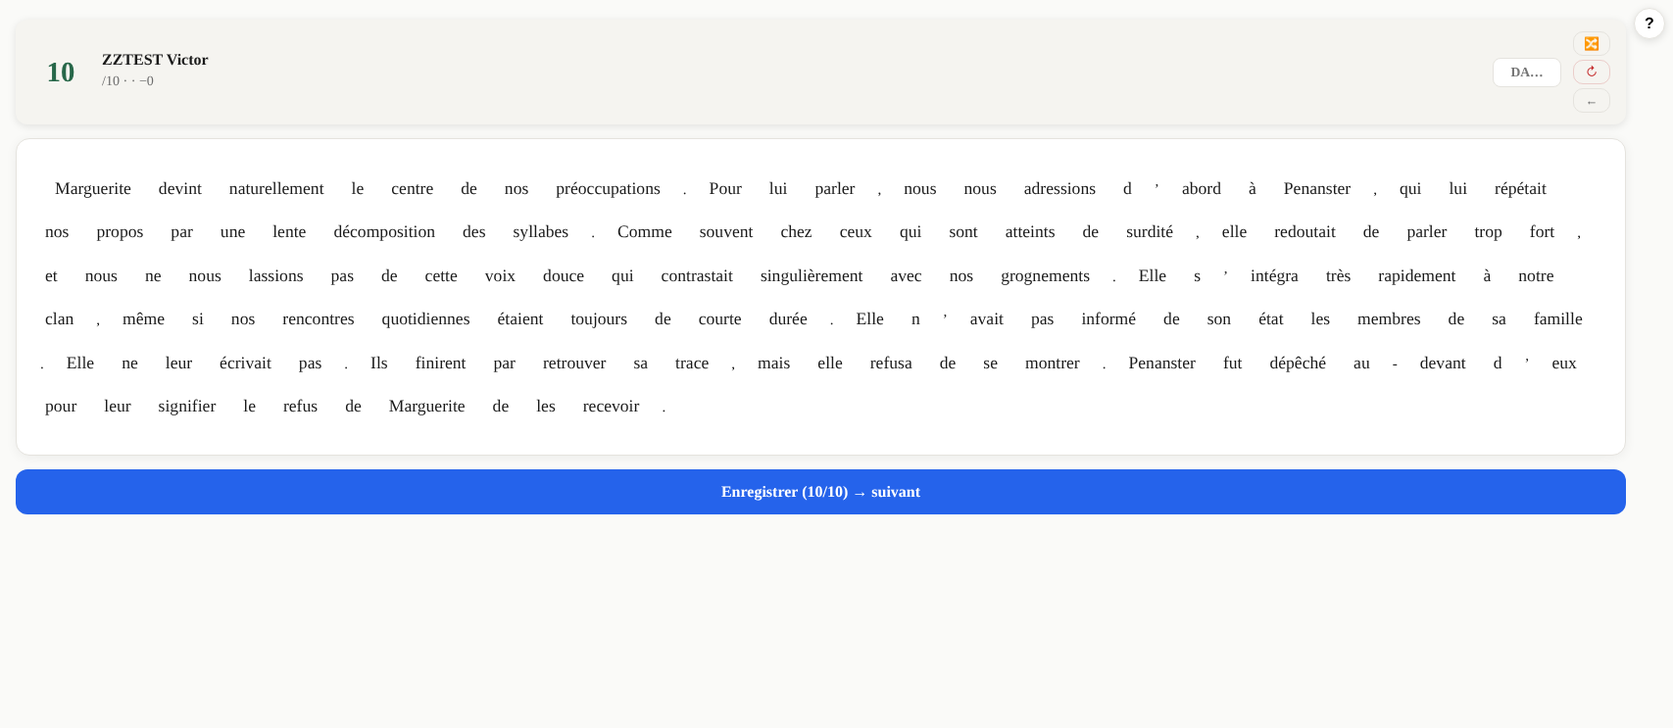
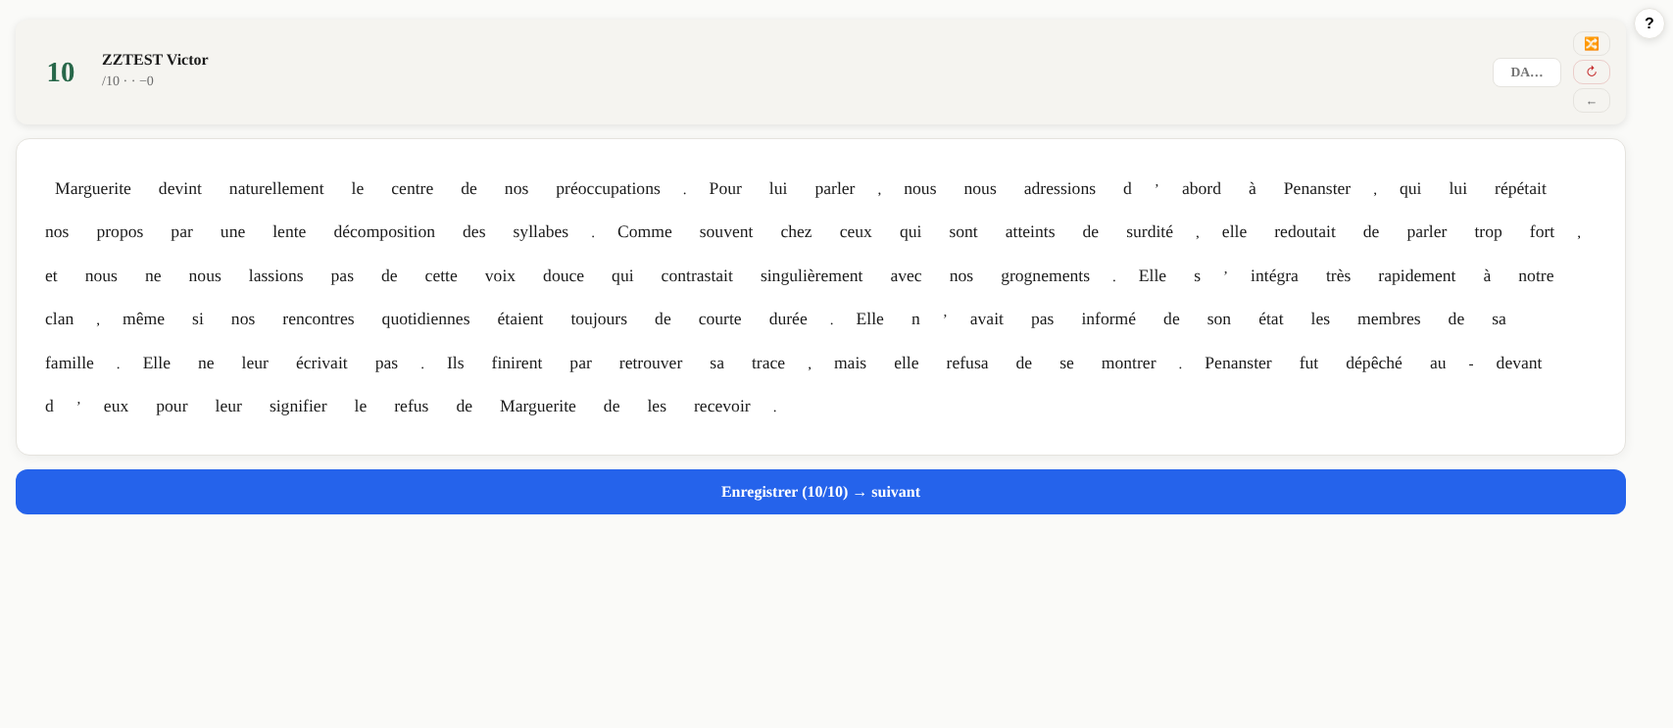
L18 · E4 · une ponctuation ne commence jamais une ligne (relance 21:42) : garde aux 4 tailles, captures refaites, banc 41/53 (rouges identiques sur la production)
Claude-Session: https://claude.ai/code/session_01CsGxvpNskTrZnVZhnRzb24

diff --git a/LIVRAISONS/DICTEE-CORRECTION/L18-largeur/correction_dictee.html b/LIVRAISONS/DICTEE-CORRECTION/L18-largeur/correction_dictee.html
@@ -121,7 +121,8 @@ textarea{resize:vertical;min-height:120px}
 .word-grid{line-height:2.2;padding:8px 0;position:relative}
 .word-line-pulse{position:absolute;left:-6px;right:-6px;background:rgba(37,99,235,.10);border-radius:6px;pointer-events:none;z-index:0;transition:top .25s ease,height .25s ease;animation:linePulse 2s ease-in-out infinite}
 @keyframes linePulse{0%,100%{background:rgba(37,99,235,.08)}50%{background:rgba(37,99,235,.20)}}
-.word-grid>.word-btn,.word-grid>.extra-word,.word-grid>.insert-zone{position:relative;z-index:1}
+.word-grid>.word-btn,.word-grid>.extra-word,.word-grid>.insert-zone,.mot-colle-l18>.word-btn,.mot-colle-l18>.extra-word,.mot-colle-l18>.insert-zone{position:relative;z-index:1}
+.mot-colle-l18{white-space:nowrap}   /* [L18] un mot et sa ponctuation : insécables ensemble */
 .word-btn{display:inline-block;padding:4px 6px;margin:3px 1px;border-radius:6px;font-size:1.1rem;line-height:1.5;cursor:pointer;border:2px solid transparent;background:transparent;color:var(--text);font-family:inherit;font-weight:400;transition:all .15s}
 .word-btn:hover{background:rgba(0,0,0,.04)}
 .word-btn.punct{padding:1px 2px;margin:0;font-size:.95rem}
@@ -1663,6 +1664,13 @@ function preselectionRapide(wt){if(!wt)return null;if(estApostrophe(wt.text))ret
 function motJuste(saisie,attendu){var a=String(saisie||"").trim(),b=String(attendu||"").trim();return !!a&&!!b&&a===b;}   /* [L15-0] casse comprise : « Empereur » pour « empereur » est une erreur de majuscule, acceptée */
 function estGuillemet(w){return/^["\u00ab\u00bb\u201c\u201d]$/.test(w)}
 function isPunct(w){return/^[.,;:!?\u2026\u00ab\u00bb\u201c\u201d\u2018\u2019'"()\-\u2013\u2014]+$/.test(w)}
+/* [L18] une ponctuation ne commence jamais une ligne : colle[i] = vrai si aucune coupure n'est permise entre le mot i-1 et le mot i
+   (la ponctuation reste avec le mot qui la précède ; « ( “ ‘ restent avec le mot qui suit ; l'apostrophe et le trait d'union lient les deux) */
+function collesL18(tokens){var c=[];for(var i=1;i<tokens.length;i++){var a=tokens[i-1],b=tokens[i];c[i]=(isPunct(b)&&!/^[\u00ab\u201c\u2018(]+$/.test(b))||(isPunct(a)&&/^[\u00ab\u201c\u2018(\u2019'\-]+$/.test(a));}return c}
+var collesCacheL18={t:null,c:null};function collesL18Cache(tokens){if(collesCacheL18.t!==tokens){collesCacheL18.t=tokens;collesCacheL18.c=collesL18(tokens);}return collesCacheL18.c}
+/* [L18] regroupe dans une même boîte insécable (.mot-colle-l18) ce qui est entre deux coupures permises ({__coupeL18}) */
+function grouperL18(liste,cle){var out=[],cur=[];function vide(){if(cur.length===1)out.push(cur[0]);else if(cur.length>1)out.push(h("span",{key:"g"+cle+(cur[0]&&cur[0].key),className:"mot-colle-l18"},cur));cur=[];}
+  liste.forEach(function(x){if(x&&x.__coupeL18){vide();return}cur.push(x)});vide();return out}
 // Espacement entre token courant et suivant — règles françaises :
 // pas d'espace avant ponctuation ; l'APOSTROPHE (désormais jeton) ne prend
 // d'espace d'aucun côté (« s » « ' » « approchèrent » → s'approchèrent).
@@ -4872,9 +4880,10 @@ function CorrEleve(p){
   var display=[];
   for(var i=0;i<tokens.length;i++){
     display.push({t:"ins",ai:i-1,k:"i"+i});
-    if(extraMap[i-1])extraMap[i-1].forEach(function(ex){display.push({t:"ex",w:ex.word,gi:ex.gi,k:"e"+(i-1)+"_"+ex.gi})});
+    if(extraMap[i-1])extraMap[i-1].forEach(function(ex){display.push({t:"ex",w:ex.word,gi:ex.gi,k:"e"+(i-1)+"_"+ex.gi,g:i})});
     display.push({t:"w",w:tokens[i],idx:i,k:"w"+i});
   }
+  var collesTexteL18=collesL18(tokens);   /* [L18] */
   display.push({t:"ins",ai:tokens.length-1,k:"iend"});
   if(extraMap[tokens.length-1])extraMap[tokens.length-1].forEach(function(ex){display.push({t:"ex",w:ex.word,gi:ex.gi,k:"eend"+ex.gi})});
 
@@ -5360,7 +5369,7 @@ function CorrEleve(p){
       h("div",{className:"word-grid",ref:wordGridRef,style:{fontSize:(fontScale*1).toFixed(3)+"rem"}},
         // Overlay pulsant de la ligne du dernier mot touché
         h("div",{className:"word-line-pulse","data-line-overlay":"1",style:{display:"none"}}),
-        display.map(function(d){
+        grouperL18(display.reduce(function(accL18,d){accL18.push((function(d){   /* [L18] le même rendu, regroupé : une ponctuation ne commence jamais une ligne */
         if(d.t==="ins")return h("span",{key:d.k,className:"insert-zone",onClick:function(){setInsertIdx(d.ai)}});
         if(d.t==="ex"){var exP=extras[d.gi]&&extras[d.gi].type==="P";return h("span",{key:d.k,className:"extra-word"+(exP?" extra-ponct":""),onClick:function(){removeExtra(d.gi)},title:exP?"Ponctuation en trop \u2014 compt\u00e9e au forfait ponctuation. Clic : la retirer.":"Mot en trop. Clic : le retirer."},"+"+d.w,exP?h("sup",{style:{fontSize:9,marginLeft:2}},"P"):null);}   /* [L5] */
         var cls="word-btn";if(isPunct(d.w))cls+=" punct";
@@ -5368,7 +5377,7 @@ function CorrEleve(p){
         if(d.idx===lastTouched)cls+=" last-touched";
         if(rechTexte&&candSetL8[d.idx])cls+=(d.idx===candIdx?" cand-courant":" cand-blink");else if(!rechTexte&&d.idx===curseur)cls+=" curseur-blink";   /* [L8] */
         return h("button",{key:d.k,"data-word-idx":d.idx,className:cls,onClick:function(){clickWord(d.idx)}},d.w,errMap[d.idx]?h("sup",{style:{fontSize:9,marginLeft:2}},errMap[d.idx]):null);
-      })),
+      })(d));var g=d.t==="w"?d.idx+1:d.t==="ins"?d.ai+1:(d.g!=null?d.g:tokens.length);if(!collesTexteL18[g])accL18.push({__coupeL18:1});return accL18},[]),"t")),
       rechTexte&&h("div",{id:"bande-recherche",style:{marginTop:10,padding:"6px 10px",borderTop:"1px dashed var(--border)",fontSize:".85rem",color:"var(--muted)"},title:"La recherche au clavier : tape les premi\u00e8res lettres d\u2019un mot. Les fl\u00e8ches passent d\u2019un mot propos\u00e9 \u00e0 l\u2019autre ; Entr\u00e9e ouvre le mot ; \u00c9chap efface."},   /* [L8] */
         h("b",null,"\u00ab "+rechTexte+" \u00bb : "),
         candListeL8.map(function(i){return h("span",{key:i,className:"bande-cand",style:{margin:"0 6px",fontWeight:i===candIdx?800:400,color:i===candIdx?"var(--text)":"var(--muted)"}},tokens[i])}),
@@ -11514,7 +11523,8 @@ function EleveCorrection(p){
         );
       })(),
       h("div",{className:"word-grid"},
-        tokens.reduce(function(acc,w,i){
+        grouperL18(tokens.reduce(function(acc,w,i){
+          if(i>0&&!collesL18Cache(tokens)[i])acc.push({__coupeL18:1});   /* [L18] une ponctuation ne commence jamais une ligne */
           // Insert extras before this token
           if(extraMapEleve[i-1])extraMapEleve[i-1].forEach(function(ex){
             acc.push(h("span",{key:"ex"+i+"_"+ex.gi,style:{textDecoration:"line-through",textDecorationThickness:"2px",color:typeCouleur("X"),fontWeight:600,padding:"2px 4px"}},ex.word))
@@ -11549,7 +11559,7 @@ function EleveCorrection(p){
             h("span",{style:{filter:isActive?"none":"blur(3px)",transition:"filter 0.2s"}},blanks,h("sub",{style:{fontSize:8,marginLeft:2}},err.type))
           ));
           return acc;
-        },[]).concat(
+        },[]),"e").concat(
           extraMapEleve[tokens.length-1]?extraMapEleve[tokens.length-1].map(function(ex){
             return h("span",{key:"exend"+ex.gi,style:{textDecoration:"line-through",textDecorationThickness:"2px",color:typeCouleur("X"),fontWeight:600,padding:"2px 4px"}},ex.word)
           }):[]

diff --git a/LIVRAISONS/DICTEE-CORRECTION/L18-largeur/bancs/banc_L5_geste.py b/LIVRAISONS/DICTEE-CORRECTION/L18-largeur/bancs/banc_L5_geste.py
@@ -1,0 +1,75 @@
+# [accordé à L18] « .word-grid .insert-zone » (et non plus « > ») : un mot et sa ponctuation sont regroupés dans une boîte insécable (.mot-colle-l18)
+"""L5 — le reclassement réel à l'ouverture (une fois, corbeille d'abord), le signe « en plus » au forfait, le bouton « M→P » retiré.
+Par le geste (ouvrir la dictée, poser un signe en trop), faux hub du kit (instantané anonymisé), ZZTEST pour la saisie."""
+import sys, copy, os, json; sys.argv=['x','a','b']; sys.path.insert(0,'.')
+import banc_L1 as L
+from banc import Banc
+F=os.environ.get('FICHIER','../live_663.html'); D3='dictee_brevet_blanc_3e-3e_charles_de_gaulle'; CAP=os.environ.get('CAPTURES','')
+ATTENDU=json.load(open(os.environ.get('RAPPORT_L4','/home/claude/dc/L4/rapport_kit.json')))
+att=[d for d in ATTENDU['dictees'] if d['id']==D3][0]
+db=copy.deepcopy(L.BASE); cl=db['correction_dictee'][D3]['config']['classe']; db['classes'][cl]['eleves']=list(db['classes'][cl]['eleves'])+['ZZTEST Quebec']
+R={}
+b=Banc(F,1400,900); p=b.ouvrir('?mode=prof',db=db); p.wait_for_timeout(1000); dlg=[]; p.on('dialog',lambda d:(dlg.append(d.message[:90]),d.accept()))
+avant=b.lire(p,'correction_dictee/%s/results'%D3) or {}
+def ouvrir_dictee():
+    p.evaluate('''()=>{document.querySelectorAll(`.niveau-l15c[data-ouvert="0"] h3`).forEach(function(h){h.click()})}'''); p.wait_for_timeout(300); p.evaluate('''()=>{const el=[...document.querySelectorAll('div')].filter(x=>x.children.length<12&&x.textContent.includes('brevet blanc 3E')&&x.textContent.includes('Ouvrir'));const c=el[el.length-1];[...c.querySelectorAll('button,a,span')].find(x=>x.textContent.trim().startsWith('Ouvrir')).click()}'''); p.wait_for_timeout(2500)
+ouvrir_dictee()
+apres=b.lire(p,'correction_dictee/%s/results'%D3) or {}
+corb=b.lire(p,'corbeille') or {}
+ent=[v for j in corb.values() if isinstance(j,dict) for k,v in j.items() if k.startswith('reclassement-ponctuation_')]
+R['ligne']=p.evaluate("()=>{const e=document.getElementById('ligne-reclassement');return e?e.innerText:null}")
+if CAP: p.screenshot(path=CAP+'/L5-ouverture.png')
+def N(c):   # [accordé à L9 et L10] l'identité de la copie (posée à l'ouverture) et le lien de forme ne comptent pas comme un reclassement
+    if not isinstance(c,dict): return c
+    c={k:v for k,v in c.items() if k not in ('id','creeLe','creeLeInconnu','modifieLe')}
+    if isinstance(c.get('errors'),list): c['errors']=[{k:v for k,v in e.items() if k!='formeId'} if isinstance(e,dict) else e for e in c['errors']]
+    return c
+touchees=sorted(k for k in avant if json.dumps(N(avant[k]),sort_keys=True)!=json.dumps(N(apres.get(k)),sort_keys=True))
+R['touchees']=len(touchees); R['attendu']=len(att['touchees'])
+# [accordé à L17 — micro L15k-d, Paul 06/10] le trait d'union compte en « Acc. » : le reclassement touche aussi les copies qui ont un « - » (M/X/P → C) ;
+# les copies du rapport restent touchées avec leur note ; les autres touchées sont EXACTEMENT celles dont seul le « - » change.
+def N2(c):
+    c=N(c)
+    if not isinstance(c,dict): return c
+    c={k:v for k,v in c.items() if k not in ('counts','deduction','note')}
+    for f in ('errors','extras'):
+        if isinstance(c.get(f),list): c[f]=[dict(e,type='C') if isinstance(e,dict) and e.get('word')=='-' else e for e in c[f]]
+    return c
+PONCT=set('.,;:!?«»"()…—–')
+def _vals(x): return list(x.values()) if isinstance(x,dict) else (x or [])
+def _a_ponct(c):   # une copie du rapport : un mot manquant (M) ou en trop (X) qui est un signe de ponctuation (hors « - »)
+    return any(isinstance(e,dict) and (e.get('type') or ('X' if f=='extras' else '')) in ('M','X') and e.get('word') in PONCT for f in ('errors','extras') for e in _vals(c.get(f)))
+def _a_trait(c):   # une copie au trait d'union : un « - » en M, X ou P
+    return any(isinstance(e,dict) and e.get('word')=='-' and (e.get('type') or ('X' if f=='extras' else '')) in ('M','X','P') for f in ('errors','extras') for e in _vals(c.get(f)))
+_seul_trait=lambda k: _a_trait(avant[k]) and json.dumps(N2(avant[k]),sort_keys=True)==json.dumps(N2(apres.get(k)),sort_keys=True)
+cles_rapport=set(k for k in touchees if not _seul_trait(k))   # les copies du rapport : celles dont le changement n'est pas seulement le « - »
+extra=[k for k in touchees if k not in cles_rapport]
+R['extra_trait']=(len(extra),all(_a_trait(avant[k]) and json.dumps(N2(avant[k]),sort_keys=True)==json.dumps(N2(apres.get(k)),sort_keys=True) for k in extra),len(cles_rapport)==R['attendu'] and cles_rapport<=set(touchees))
+R['intactes_identiques']=all(json.dumps(N(avant[k]),sort_keys=True)==json.dumps(N(apres.get(k)),sort_keys=True) for k in avant if k not in touchees)
+R['notes_apres']=sorted(apres[k]['note'] for k in touchees if (not cles_rapport) or k in cles_rapport); R['notes_rapport']=sorted(t['note_apres'] for t in att['touchees'])
+R['champs_gardes']=all(set(avant[k].keys())<=set(apres[k].keys()) for k in touchees)
+R['corbeille']=(len(ent),all(e['_meta']['motif']=='reclassement-ponctuation' and e['_meta']['chemin']=='correction_dictee/%s/results/%s'%(D3,e['_meta']['cle']) and json.dumps(N(e['data']),sort_keys=True)==json.dumps(N(avant[e['_meta']['cle']]),sort_keys=True) for e in ent))
+R['bouton_MP']=p.evaluate("()=>[...document.querySelectorAll('button')].some(b=>b.textContent.includes('M→P'))")
+# rouverte : rien de plus (une fois)
+p.locator('button:has-text("← Retour")').first.click(); p.wait_for_timeout(1200); ouvrir_dictee()
+corb2=b.lire(p,'corbeille') or {}; ent2=[1 for j in corb2.values() if isinstance(j,dict) for k in j if k.startswith('reclassement-ponctuation_')]
+R['une_fois']=(len(ent2)==len(ent), json.dumps({k:N(v) for k,v in (b.lire(p,'correction_dictee/%s/results'%D3) or {}).items()},sort_keys=True)==json.dumps({k:N(v) for k,v in apres.items()},sort_keys=True), p.evaluate("()=>!document.getElementById('ligne-reclassement')"))
+# désormais : un signe posé « en plus » va au forfait ponctuation
+p.locator('.eleve-card',has_text='Z. Quebec').first.click(); p.wait_for_timeout(900)
+p.locator('.word-grid .insert-zone').nth(3).click(); p.wait_for_timeout(300); p.keyboard.type(','); p.keyboard.press('Enter'); p.wait_for_timeout(500)
+q=b.lire(p,'correction_dictee/%s/results/zztest_quebec'%D3) or {}
+R['signe_en_plus']=(q.get('extras'),q.get('note'),q.get('counts',{}).get('P'),q.get('counts',{}).get('X'),p.evaluate("()=>{const e=document.querySelector('.extra-word.extra-ponct');return e?e.innerText:null}"))
+if CAP: p.screenshot(path=CAP+'/L5-signe-en-plus.png')
+p.locator('.word-grid .insert-zone').nth(5).click(); p.wait_for_timeout(300); p.keyboard.type('zzmot'); p.keyboard.press('Enter'); p.wait_for_timeout(500)
+q=b.lire(p,'correction_dictee/%s/results/zztest_quebec'%D3) or {}; R['mot_en_plus']=([x for x in (q.get('extras') or {}).values()] if isinstance(q.get('extras'),dict) else q.get('extras'),q.get('note'))
+R['fenetres']=dlg; R['erreurs']=b.erreurs[:3]
+print(json.dumps(R,ensure_ascii=False)); R=json.loads(json.dumps(R))
+ex=R['signe_en_plus'][0]; exl=list(ex.values()) if isinstance(ex,dict) else (ex or [])
+from collections import Counter as _C
+# [accordé à L17] une copie du rapport dont la seule conversion était un « - » en trop (alors → P) passe maintenant en « Acc. » : elle rejoint les copies au trait d'union
+_inclus=not (_C(R['notes_apres'])-_C(R['notes_rapport'])) and 0<=len(R['notes_rapport'])-len(R['notes_apres'])<=R['extra_trait'][0]
+ok=((R['touchees']==R['attendu'] or (R['extra_trait'][1] and _inclus and R['touchees']==len(R['notes_apres'])+R['extra_trait'][0])) and R['intactes_identiques'] and (R['notes_apres']==R['notes_rapport'] or _inclus) and R['champs_gardes'] and R['corbeille']==[R['touchees'],True]
+    and R['ligne'] and ('%d copies reclassées'%R['touchees']) in R['ligne'] and R['bouton_MP'] is False and R['une_fois']==[True,True,True]
+    and len(exl)==1 and exl[0].get('type')=='P' and exl[0].get('word')==',' and R['signe_en_plus'][1]==10 and R['signe_en_plus'][2]==1 and R['signe_en_plus'][3]==0 and R['signe_en_plus'][4]
+    and R['mot_en_plus'][1]==9.5 and R['fenetres']==[] and R['erreurs']==[])
+print('BANC L5 PAR LE GESTE :','VERT' if ok else 'ROUGE'); b.fermer(); sys.exit(0 if ok else 1)

diff --git a/LIVRAISONS/DICTEE-CORRECTION/L18-largeur/bancs/cap_l18.py b/LIVRAISONS/DICTEE-CORRECTION/L18-largeur/bancs/cap_l18.py
@@ -5,6 +5,9 @@ import banc_L1 as L
 from banc import Banc
 F=os.environ['FICHIER']; CAP=os.environ.get('CAPTURES',''); TAG=os.environ.get('TAG','x'); D3='dictee_brevet_blanc_3e-3e_charles_de_gaulle'
 TAILLES=[tuple(map(int,t.split('x'))) for t in os.environ.get('TAILLES','1707x743,1366x768').split(',')]
+PONCT="""()=>{const P=/^[.,;:!?\u2026\u00bb\u201d\u2019'")\-\u2013\u2014]+$/;const bs=[...document.querySelectorAll('.word-grid .word-btn')];let lignes=bs.length?1:0,mauvaises=[];
+ for(let i=1;i<bs.length;i++){const a=bs[i-1].getBoundingClientRect(),b=bs[i].getBoundingClientRect();if(b.top>a.top+a.height/2){lignes++;const t=bs[i].textContent.replace(/[A-Z]$/,'').trim();if(P.test(t))mauvaises.push(t+' '+(bs[i+1]?bs[i+1].textContent.trim():''));}}
+ return {mots:bs.length,lignes:lignes,ponctuation_en_debut:mauvaises}}"""
 GEO="""()=>{const c=[...document.querySelectorAll('.container,.container-wide')].filter(x=>x.getBoundingClientRect().width>0)[0];
  return {cadre:c?Math.round(c.getBoundingClientRect().width):null, gauche:c?Math.round(c.getBoundingClientRect().left):null, ecran:innerWidth, defilement_h:document.documentElement.scrollWidth>innerWidth+1}}"""
 db=copy.deepcopy(L.BASE); cl=db['correction_dictee'][D3]['config']['classe']; db['classes'][cl]['eleves']=list(db['classes'][cl]['eleves'])+['ZZTEST Victor']
@@ -23,7 +26,7 @@ def entrer(p):
     p.evaluate('''()=>{const el=[...document.querySelectorAll('div')].filter(x=>x.children.length<12&&x.textContent.includes('brevet blanc 3E')&&x.textContent.includes('Ouvrir'));const c=el[el.length-1];[...c.querySelectorAll('button,a,span')].find(x=>x.textContent.trim().startsWith('Ouvrir')).click()}'''); p.wait_for_timeout(2200)
 for W,H in TAILLES:
     b,p=ouvrir(W,H); cap(p,'1-accueil',W); entrer(p); cap(p,'2-ouverte',W)
-    p.locator('.eleve-card',has_text='Z. Victor').first.click(); p.wait_for_timeout(900); cap(p,'3-copie-texte',W)
+    p.locator('.eleve-card',has_text='Z. Victor').first.click(); p.wait_for_timeout(900); cap(p,'3-copie-texte',W); R['ponct_%d'%W]=p.evaluate(PONCT)
     p.keyboard.press('Shift+R'); p.wait_for_timeout(900)
     for _ in range(6): p.keyboard.press(' '); p.wait_for_timeout(60)
     cap(p,'4-copie-rapide',W); R['erreurs_a_%d'%W]=b.erreurs[:2]; R['violations_a_%d'%W]=b.violations[:2]; b.fermer()

diff --git a/LIVRAISONS/DICTEE-CORRECTION/L18-largeur/NOTE.md b/LIVRAISONS/DICTEE-CORRECTION/L18-largeur/NOTE.md
@@ -1,5 +1,5 @@
 # L18 — toute la largeur (13 · 61) · E4 · 27/10/2026
-*Base : la production **6.7.0-L17-1q3** (`correction_dictee.html` de `monsieurjaipascompris`, 1 011 698 o, md5 `9d5dcfb612a70a8182689566b1fe23c5`). → **6.7.0-L18** : 1 012 323 o, md5 `e032d0ac3ed20afe262557687f0631b6`. Rien n'est promu.*
+*Base : la production **6.7.0-L17-1q3** (`correction_dictee.html` de `monsieurjaipascompris`, 1 011 698 o, md5 `9d5dcfb612a70a8182689566b1fe23c5`). → **6.7.0-L18** : 1 014 115 o, md5 `a4f2c28329f2020f1afc5d4f09bdd014` (avec la retouche « ponctuation » de 21:42). Rien n'est promu.*
 
 ## Ce que ça change pour la classe
 Sur l'ordinateur de Paul, l'accueil « Mes dictées », la dictée ouverte (Pilotage, Données, Réglages) et la correction d'une copie (mode texte, mode rapide) prennent toute la largeur de l'écran, au lieu d'une colonne de 1 100 ou 1 300 px au milieu. Règle de Paul (26/10) : « On utilise toute la largeur et la hauteur de l'écran, tout le temps. » Côté élève, rien ne change (la tablette, la copie, les exercices : `.container`, 760 px, intact).
@@ -10,18 +10,21 @@ Sur l'ordinateur de Paul, l'accueil « Mes dictées », la dictée ouverte (Pilo
 - 48 px de marge à droite sur ces deux cadres : le « ? » de l'aide est fixé en haut à droite (`.aide-btn`, 8 px du bord, 32 px de large) ; sans cette marge, il recouvrait le bouton 🔀 de l'en-tête d'une copie et touchait « ← Retour ».
 - `APP_VERSION` : `6.7.0-L18`.
 - **Un défaut révélé par la largeur, corrigé** (`deplacerL8`, mode texte au clavier) : ↑ et ↓ cherchent la ligne voisine, puis le mot le plus proche en x parmi ceux « à la même distance » — sans regarder le sens. Avec des lignes plus longues, ↑ choisissait un mot de la ligne d'en dessous (banc L8 : « haut » rouge, « fort » → ↓ « et » → ↑ partait encore vers le bas). Le sens est maintenant exigé aussi au second tri ; L8 est vert. Rien d'autre ne bouge dans ce geste.
+- **Une ponctuation ne commence jamais une ligne** (relance 21:42) : avec des lignes plus longues, « . Elle » ouvrait une ligne. Un mot et la ponctuation qui le suit (avec la case d'insertion entre eux) sont rangés dans une boîte insécable (`.mot-colle-l18`, `white-space:nowrap`) ; « ( “ ‘ » restent avec le mot qui suit ; l'apostrophe et le trait d'union lient les deux mots (« d’eux », « au-devant »). Fait dans la grille du prof (mode texte) et dans la grille de la copie de l'élève (même règle, `collesL18` / `grouperL18`). Le mode rapide (une ligne de contexte en texte), la Préparation (un champ de texte) et la fiche ne sont pas une grille de boutons : rien à y faire. Un essai l'a montré : un « joint de mots » (U+2060) ne suffit pas entre des boutons, il faut la boîte.
 Ni geste, ni texte, ni donnée ne change. Les fenêtres (popups, aide, prompt IA), la vue « élève miroir » du Suivi (800 px) et les fichiers exportés gardent leurs largeurs : ce ne sont pas des écrans de travail du professeur sur toute la page.
 
 ## Mesuré (`bancs/cap_l18.py`, le même parcours avant / après)
 Douze écrans par taille : accueil, dictée ouverte, une copie en mode texte, en mode rapide, puis Préparation, Rapide, Bilan, Copies, Fiches élèves, Suivi, Exercices, Réglages.
 - **Avant** (production) : le cadre fait 1 100 px (accueil, copie) ou 1 300 px (dictée ouverte), centré ; à 1707 px, 300 à 400 px vides de chaque côté.
 - **Après** : le cadre fait la largeur de l'écran à 1366 × 768, 1536 × 743, 1707 × 743 et 1920 × 1080 ; **aucun défilement de côté** sur les 48 écrans ; zéro erreur de page, zéro accès au vrai hub.
-- Captures (`captures/`) : `avant-*` et `apres-*` à 1707 × 743 et 1366 × 768, regardées.
+- **Garde « ponctuation »** (`cap_l18.py`, `ponct_<taille>` dans `captures/mesures-apres.json`) : sur la dictée du banc (144 mots), aucune ligne de la grille ne commence par une ponctuation, à 1366, 1536, 1707 et 1920. Sur la L18 d'avant la retouche, la même garde trouve « . Elle » à 1536 et 1707.
+- Captures (`captures/`) : `avant-*` et `apres-*` à 1707 × 743 et 1366 × 768, refaites après la retouche, regardées.
 
 ## Bancs
 - Le kit (`KITS/banc_dictee_kit_anonyme.zip`) et les bancs de toutes les livraisons L1 → L17-1q, rejoués par le banc unique (`bancs/lance.sh` : la liste de L17-1q, `FICHIER` = cette livrée).
+- **`banc_L5_geste.py` accordé** : il visait les cases d'insertion par « `.word-grid>.insert-zone` » ; une case entre un mot et sa ponctuation est maintenant dans la boîte insécable : « `.word-grid .insert-zone` » (les mêmes cases, dans le même ordre). L'ancien : `banc_L5_geste_avant_L18.py`.
 - **`banc_L7_geste.py` accordé** : il exigeait un cadre de 1 100 px (décision du 01/10) ; il exige maintenant la largeur de l'écran (13 · 61), sans bouton qui dépasse de son cadre ni défilement de côté ; ses autres conditions (la phrase en mode rapide, les écrans élèves au pixel près contre la 6.6.3) sont inchangées. L'ancien est gardé au kit sous `banc_L7_geste_avant_L18.py`.
-- **Banc unique (53 étapes) sur la L18 : 42 vertes, 11 rouges — les 11 rouges le sont à l'identique sur la production 6.7.0-L17-1q3, rejouée ici** (`sorties/prod/`) :
+- **Banc unique (53 étapes), rejoué après la retouche : 41 vertes, 12 rouges — les 12 rouges le sont à l'identique sur la production 6.7.0-L17-1q3, rejouée ici** (`sorties/prod/`). La 12e, `banc_revient`, était verte à 20:40 et rouge à 23:00 sur les trois fichiers (production, L18 d'avant, L18) : elle dépend de l'heure (elle lance l'autocorrection « aujourd'hui ») — à rejouer de jour. Les 11 autres :
   - mêmes conditions rouges, sans lien avec la largeur : L11 (`eleve_feuille`), L12 (`rapide` : l'aide du mode rapide a gagné la ligne « C » depuis, le banc ne la connaît pas), L13 (`a_zero_mes_dictees`) ;
   - données absentes du sas (extraits réels du hub et PDF de Paul, jamais déposés) : L15e (`pdfs_paul/`), traitunion (`/tmp/dylan.json`), l17bis, l17bisb, l17bisc (`/tmp/hugo.json`…), 175, 177 (`/tmp/hugo2.json`…), trouvees (`/tmp/franklin2.json`). Ils ne peuvent tourner qu'avec ces fichiers, chez la conscience.
   - Vertes, entre autres : modes, fuzz texte (5 + 4 copies, 0 bug), fuzz rapide (3 copies, 0 bug), grille, L1 → L10, L7 accordé, L8 (après le correctif ↑), L14, L15*, L16a, L171, revient, la vue élève (identique à la référence).

diff --git a/LIVRAISONS/DICTEE-CORRECTION/L18-largeur/JOURNAL.md b/LIVRAISONS/DICTEE-CORRECTION/L18-largeur/JOURNAL.md
@@ -8,3 +8,9 @@
 - `correction_dictee.html` : 1 012 323 o, md5 e032d0ac3ed20afe262557687f0631b6. Rien n'est promu.
 
 **L18 largeur fini (457140d59)** — 27/10 20:50 (Paris) · branche `l18-largeur`.
+
+## 27/10 23:08 (Paris) · poussée 2 — la retouche de 21:42 : une ponctuation ne commence jamais une ligne
+- Grille du prof (mode texte) et grille de la copie de l'élève : un mot et sa ponctuation dans une boîte insécable ; « ( “ ‘ » avec le mot suivant ; apostrophe et trait d'union lient les deux. Détail : `NOTE.md`.
+- Garde aux quatre tailles (1366, 1536, 1707, 1920) : aucune ligne qui commence par une ponctuation (elle trouvait « . Elle » à 1536 et 1707 avant). Captures après refaites (toutes, à 1707 et 1366), regardées ; aucun défilement de côté.
+- Banc unique : 41 / 53 vertes ; les 12 rouges identiques sur la production (dont `banc_revient`, qui dépend de l'heure : rouge à 23:00 sur la production aussi). `banc_L5_geste.py` accordé (le sélecteur des cases d'insertion).
+- `correction_dictee.html` : 1 014 115 o, md5 a4f2c28329f2020f1afc5d4f09bdd014.
